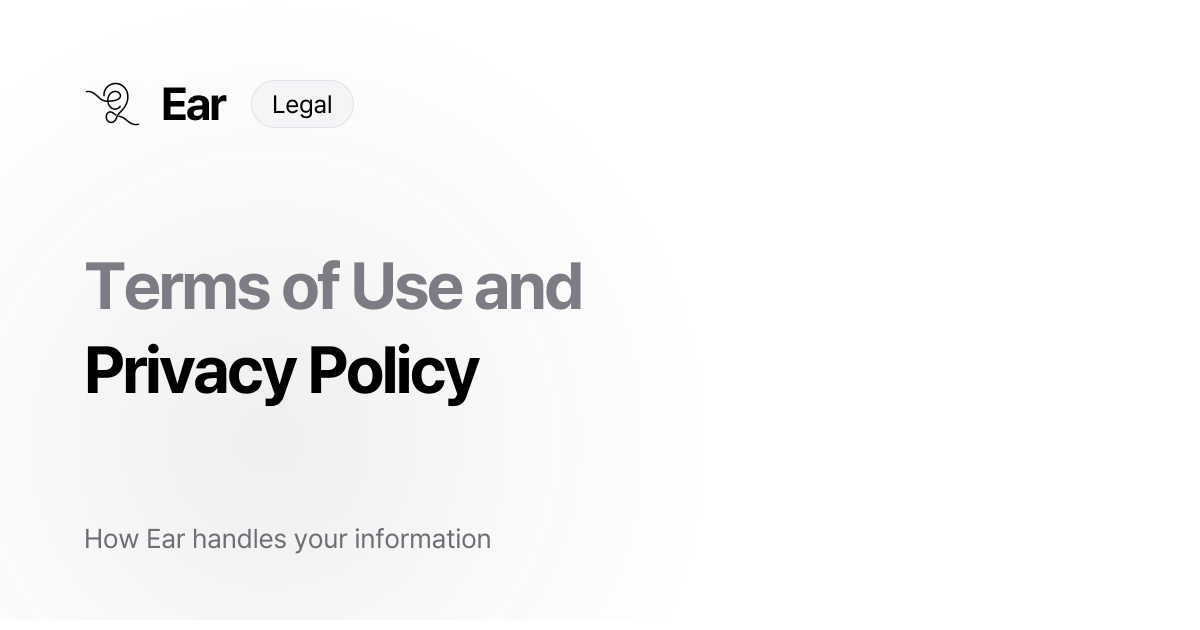
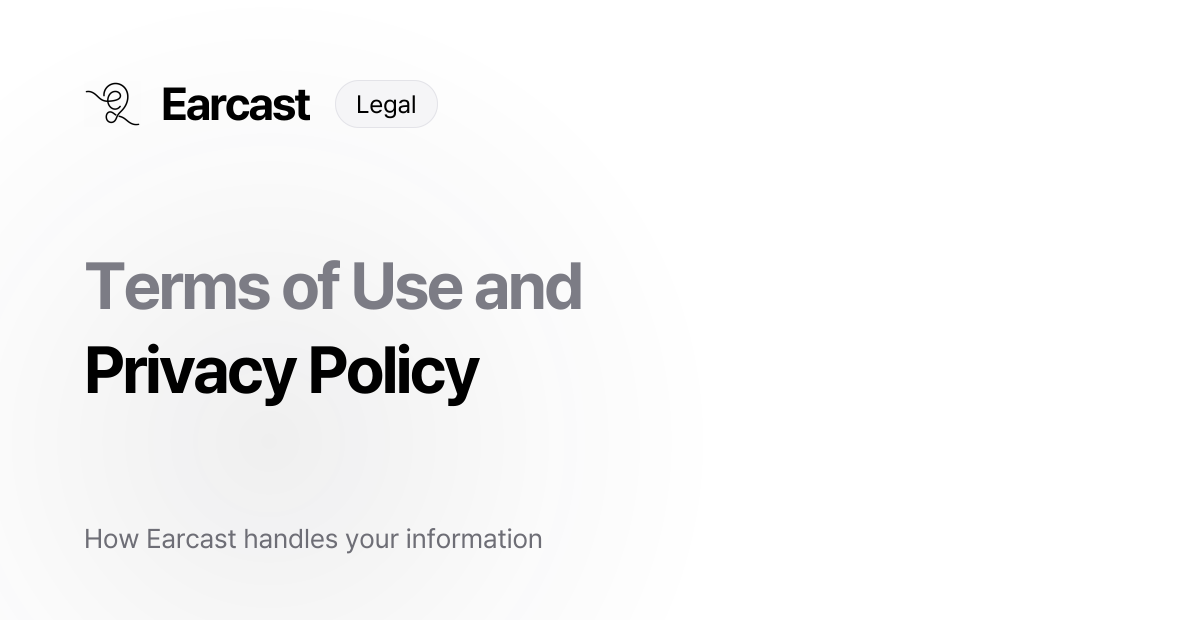
docs(landing): rename english app name to earcast
영어 페이지(/en)·영어 약관·처리방침·OG 이미지의 앱 이름 Ear 를
Earcast 로 바꾼다(2026-10-18 PM 확정, KAN-199).

Claude-Session: https://claude.ai/code/session_01PnE7g58ZtqfhDH1crrtndf

Changed region(s): [[0.1542, 0.8444, 0.4625, 0.8746], [0.185, 0.1206, 0.2775, 0.2111], [0.3083, 0.1508, 0.37, 0.181]]

diff --git a/landing-page/src/content/legal-en.ts b/landing-page/src/content/legal-en.ts
@@ -27,7 +27,7 @@ const TBD = {
 } as const;
 
 export const legalNoticeEn =
-  "Ear is preparing its global launch. This document describes the rules that will apply at launch. The effective date and confirmed company details will be announced with the launch.";
+  "Earcast is preparing its global launch. This document describes the rules that will apply at launch. The effective date and confirmed company details will be announced with the launch.";
 
 export const legalMetaEn = {
   effectiveDate: TBD.effectiveDate,
@@ -48,7 +48,7 @@ export const legalLabelsEn = {
 export const privacyBlocksEn: Block[] = [
   {
     type: "p",
-    text: `This Privacy Policy explains how ${TBD.company} ("**we**", "**us**") handles personal information when you use the audio service "${site.name}" ("**Ear**" or the "**Service**") in the global (English) market — what we collect, why, who receives it, how long we keep it, and the rights you have. It applies to users who chose English as their content language when they signed up.`,
+    text: `This Privacy Policy explains how ${TBD.company} ("**we**", "**us**") handles personal information when you use the audio service "${site.name}" ("**Earcast**" or the "**Service**") in the global (English) market — what we collect, why, who receives it, how long we keep it, and the rights you have. It applies to users who chose English as their content language when they signed up.`,
   },
 
   { type: "h2", text: "1. Who we are" },
@@ -145,7 +145,7 @@ export const privacyBlocksEn: Block[] = [
   {
     type: "note",
     title: "Recommendations",
-    text: "Ear picks daily episodes automatically from the topics you follow and what you listen to. This is personalization of what we offer you; it does not produce legal or similarly significant effects on you, and you can change your topics at any time.",
+    text: "Earcast picks daily episodes automatically from the topics you follow and what you listen to. This is personalization of what we offer you; it does not produce legal or similarly significant effects on you, and you can change your topics at any time.",
   },
 
   { type: "h2", text: "4. Who receives your information" },
@@ -195,13 +195,13 @@ export const privacyBlocksEn: Block[] = [
   { type: "h2", text: "6. International transfers" },
   {
     type: "p",
-    text: "We are based in the Republic of Korea and our servers are in Seoul. If you use Ear from another country, your information is transferred to Korea, and some providers in section 4 process it in the United States or other countries where they operate. We transfer it only to providers bound by contract to protect it to a standard comparable to the law of your country, and, where your law requires it, with your consent. You can ask us for details of these safeguards at the contact address below.",
+    text: "We are based in the Republic of Korea and our servers are in Seoul. If you use Earcast from another country, your information is transferred to Korea, and some providers in section 4 process it in the United States or other countries where they operate. We transfer it only to providers bound by contract to protect it to a standard comparable to the law of your country, and, where your law requires it, with your consent. You can ask us for details of these safeguards at the contact address below.",
   },
 
   { type: "h2", text: "7. Children" },
   {
     type: "p",
-    text: "Ear is for people **aged 18 or older**, or **16 or older** in Singapore, Hong Kong and the Republic of Korea. We ask you to confirm your age when you sign up and we do not knowingly collect information from anyone below the age that applies where they live. If we learn that we have, we delete it and close the account. If you believe a child has given us information, contact us.",
+    text: "Earcast is for people **aged 18 or older**, or **16 or older** in Singapore, Hong Kong and the Republic of Korea. We ask you to confirm your age when you sign up and we do not knowingly collect information from anyone below the age that applies where they live. If we learn that we have, we delete it and close the account. If you believe a child has given us information, contact us.",
   },
 
   { type: "h2", text: "8. Your rights" },
@@ -290,10 +290,10 @@ export const termsBlocksEn: Block[] = [
   { type: "h2", text: "1. About these Terms" },
   {
     type: "p",
-    text: `These Terms of Use ("**Terms**") are an agreement between you and ${TBD.company} ("**we**", "**us**") for the AI-generated podcast service "${site.name}" ("**Ear**" or the "**Service**"). By creating an account you agree to these Terms and acknowledge our Privacy Policy.`,
+    text: `These Terms of Use ("**Terms**") are an agreement between you and ${TBD.company} ("**we**", "**us**") for the AI-generated podcast service "${site.name}" ("**Earcast**" or the "**Service**"). By creating an account you agree to these Terms and acknowledge our Privacy Policy.`,
   },
 
-  { type: "h2", text: "2. Who can use Ear" },
+  { type: "h2", text: "2. Who can use Earcast" },
   {
     type: "ol",
     items: [
@@ -305,7 +305,7 @@ export const termsBlocksEn: Block[] = [
     ],
   },
 
-  { type: "h2", text: "3. What Ear provides" },
+  { type: "h2", text: "3. What Earcast provides" },
   {
     type: "ol",
     items: [
@@ -332,10 +332,10 @@ export const termsBlocksEn: Block[] = [
   {
     type: "ol",
     items: [
-      "Ear has a free plan with a daily play limit and paid subscription plans with a higher or no daily limit. The plan names, prices, billing period and limits are shown on the subscription screen before you buy.",
+      "Earcast has a free plan with a daily play limit and paid subscription plans with a higher or no daily limit. The plan names, prices, billing period and limits are shown on the subscription screen before you buy.",
       "**Subscriptions are purchased through the Apple App Store or Google Play** and charged to your store account. Prices are shown in your local currency by the store and may include taxes.",
       "**Subscriptions renew automatically** for the same period and price unless you cancel at least 24 hours before the end of the current period. Your account is charged for renewal within 24 hours before the period ends.",
-      "**You can manage or cancel your subscription in your store account settings** (iPhone: Settings › your name › Subscriptions; Android: Google Play › Payments & subscriptions). Ear's plan screen links there.",
+      "**You can manage or cancel your subscription in your store account settings** (iPhone: Settings › your name › Subscriptions; Android: Google Play › Payments & subscriptions). Earcast's plan screen links there.",
       "If you cancel, you keep paid features until the end of the period you already paid for, then move to the free plan. Your library stays.",
       "Upgrades take effect immediately as handled by the store. Downgrades take effect at the next renewal.",
       "If an introductory offer or free trial is offered, its length and what happens when it ends are shown before you start it. Any unused part of a free trial is forfeited when you buy a subscription, where the store applies that rule.",
@@ -373,7 +373,7 @@ export const termsBlocksEn: Block[] = [
   {
     type: "ol",
     items: [
-      "Ear and its episodes are owned by us or our licensors.",
+      "Earcast and its episodes are owned by us or our licensors.",
       "We give you a **personal, non-exclusive, non-transferable, revocable license** to stream episodes in the app for your own non-commercial use.",
       "You may not copy, record, download outside the app, redistribute, broadcast, publicly perform or create derivative works from episodes or scripts without our written permission.",
       "We may stop offering an episode at any time — for example when a license ends or a rights holder asks us to — and it will disappear from your library and search.",
@@ -425,7 +425,7 @@ export const termsBlocksEn: Block[] = [
   { type: "h2", text: "14. Apple App Store" },
   {
     type: "p",
-    text: "If you downloaded Ear from the Apple App Store:",
+    text: "If you downloaded Earcast from the Apple App Store:",
   },
   {
     type: "ul",
@@ -443,7 +443,7 @@ export const termsBlocksEn: Block[] = [
   { type: "h2", text: "15. Changes to these Terms" },
   {
     type: "p",
-    text: "We will announce changes in the app at least 7 days before they take effect, and at least 30 days before changes that are worse for you. If you do not agree, you can stop using Ear and delete your account; continuing to use it after the change requires your agreement to the new version.",
+    text: "We will announce changes in the app at least 7 days before they take effect, and at least 30 days before changes that are worse for you. If you do not agree, you can stop using Earcast and delete your account; continuing to use it after the change requires your agreement to the new version.",
   },
 
   { type: "h2", text: "16. Governing law and disputes" },

diff --git a/landing-page/src/content/en/site.ts b/landing-page/src/content/en/site.ts
@@ -9,14 +9,15 @@
  * 쓰지 않은 것: 편수·길이·가격·요금제 이름 — 글로벌 요금제와 편성 수치가 아직 확정되지 않았다(global-api.md 9장).
  * 확정되면 그때 넣는다.
  *
- * 영어 앱 이름 `Ear`는 **PM 확정 전 임시값**이다(KAN-198). 바뀌면 `enSite.name` 한 곳만 고친다.
+ * 영어 앱 이름은 `Earcast`다(2026-10-18 PM 확정 — KAN-199. 종전 임시값 `Ear`, KAN-198). 바뀌면 `enSite.name`과
+ * 본문 문장(이 파일·`routes.ts`·`legal-en.ts`·`scripts/og-pages.mjs`)을 함께 고친다.
  * 화면에 나가는 값이므로 **한국어 글자를 넣지 않는다**.
  */
 
 import { site } from "../site";
 
 export const enSite = {
-  name: "Ear",
+  name: "Earcast",
   shortDescription:
     "AI-generated audio episodes on Korean culture, delivered to your library every day.",
   locale: "en_US",
@@ -28,12 +29,12 @@ export const enHome = {
   hero: {
     eyebrow: "AI podcast app",
     title: "Korean culture, in short audio episodes",
-    lede: "Ear is an AI-generated podcast app. Pick the topics you like, and new episodes about Korean culture arrive in your library every day. Every episode is produced ahead of time, so it plays the moment you tap.",
+    lede: "Earcast is an AI-generated podcast app. Pick the topics you like, and new episodes about Korean culture arrive in your library every day. Every episode is produced ahead of time, so it plays the moment you tap.",
   },
   features: {
     eyebrow: "Features",
     title: "Less searching, more listening",
-    lede: "Ear takes care of finding something to listen to, so you can just press play.",
+    lede: "Earcast takes care of finding something to listen to, so you can just press play.",
     items: [
       {
         icon: "drip",
@@ -48,7 +49,7 @@ export const enHome = {
       {
         icon: "resume",
         title: "Pick up where you left off",
-        text: "Ear remembers where you stopped. It never starts playing on its own when you open the app.",
+        text: "Earcast remembers where you stopped. It never starts playing on its own when you open the app.",
       },
       {
         icon: "compass",
@@ -72,13 +73,13 @@ export const enHome = {
     eyebrow: "About the content",
     title: "Made with AI, and we say so",
     paragraphs: [
-      "Episodes on Ear are written with the help of AI and read by synthetic voices (text-to-speech). The voices are not real people.",
+      "Episodes on Earcast are written with the help of AI and read by synthetic voices (text-to-speech). The voices are not real people.",
       "We check scripts against their sources before release, but AI-generated content can still contain mistakes. Episodes are for general interest and are not legal, medical, financial or other professional advice. If you spot an error, let us know.",
     ],
   },
   cta: {
     title: "Start with today's episode",
-    lede: "Ear is available on the App Store and Google Play.",
+    lede: "Earcast is available on the App Store and Google Play.",
   },
   nextTitle: "More information",
 } as const;

diff --git a/landing-page/src/content/en/routes.ts b/landing-page/src/content/en/routes.ts
@@ -22,7 +22,7 @@ export type EnRouteMeta = {
   koKey: RouteKey;
   /** 바닥글·breadcrumb에 쓰는 이름. */
   label: string;
-  /** `<title>`. 영어 레이아웃의 template이 뒤에 " | Ear"를 붙인다(홈은 예외). */
+  /** `<title>`. 영어 레이아웃의 template이 뒤에 " | Earcast"를 붙인다(홈은 예외). */
   title: string;
   description: string;
   /** `scripts/og-pages.mjs`가 굽는 파일과 이름이 같아야 한다. */
@@ -44,9 +44,9 @@ export const enRoutes: Record<EnRouteKey, EnRouteMeta> = {
     path: "/en/",
     koKey: "home",
     label: "Home",
-    title: "Ear — AI-generated audio episodes on Korean culture",
+    title: "Earcast — AI-generated audio episodes on Korean culture",
     description:
-      "Ear is an AI-generated podcast app. Pick the topics you like, and short audio episodes about Korean culture arrive in your library every day, ready to play.",
+      "Earcast is an AI-generated podcast app. Pick the topics you like, and short audio episodes about Korean culture arrive in your library every day, ready to play.",
     ogImage: "/og/en.png",
     priority: 0.8,
     changeFrequency: "monthly",
@@ -60,7 +60,7 @@ export const enRoutes: Record<EnRouteKey, EnRouteMeta> = {
     title: "Terms of Use",
     // 제목·설명은 PR #1584의 영어 약관 페이지 문구 그대로다
     description:
-      "The rules for using Ear — eligibility, subscriptions and cancellation, AI-generated content, and how you may use our episodes.",
+      "The rules for using Earcast — eligibility, subscriptions and cancellation, AI-generated content, and how you may use our episodes.",
     ogImage: "/og/en-legal.png",
     priority: 0.3,
     changeFrequency: "yearly",
@@ -86,7 +86,7 @@ export const enRoutes: Record<EnRouteKey, EnRouteMeta> = {
     label: "Account Deletion",
     title: "Delete Your Account",
     description:
-      "How to delete your Ear account, what is deleted, and what is kept for a limited time because the law requires it.",
+      "How to delete your Earcast account, what is deleted, and what is kept for a limited time because the law requires it.",
     ogImage: "/og/en-legal.png",
     priority: 0.3,
     changeFrequency: "yearly",

diff --git a/docs/tickets/frontend/pending/landing-english-pages.md b/docs/tickets/frontend/pending/landing-english-pages.md
@@ -49,3 +49,4 @@
     - 운영 반영 — 랜딩 운영은 main을 따른다(dev → main PR). 그 뒤 완료 조건 2(영어 URL 200 응답) 확인.
     - 사람 손 — 글로벌 스토어 리스팅의 지원 URL `https://earcast.co.kr/en/`, 개인정보 URL `https://earcast.co.kr/en/privacy/`, Google Play 계정 삭제 URL `https://earcast.co.kr/en/account-deletion/` 입력.
 - 2026-10-18 영어 앱 이름 **Earcast** 로 PM 확정(KAN-198 — 종전 임시값 `Ear`). 앱은 PR `feat(fe)/release-1-3-0` 에서 반영했고, **랜딩은 아직 `Ear` 다** — `src/content/en/site.ts` `enSite.name` · `routes.ts` 제목·설명 · `legal-en.ts` 본문의 "Ear" 별칭 · `scripts/og-pages.mjs` 영어 워드마크. 랜딩 릴리즈(dev→main)와 함께 바꾼다.
+- 2026-10-19 **랜딩 영어 앱 이름 `Ear` → `Earcast`**(브랜치 `docs(fe)/landing-earcast-name`). 단어 경계(`Ear`)로만 바꿔 `Earn`·`early`·`hear`·`year` 류는 건드리지 않았다 — 29곳: `src/content/en/site.ts` 7(`enSite.name` 포함 — 헤더·바닥글·`<title>` template·`applicationName`·저작권 줄이 이 값을 따른다) · `src/content/en/routes.ts` 5(제목·설명·주석) · `src/content/legal-en.ts` 13 · `scripts/og-pages.mjs` 4(영어 워드마크·문구·주석). 한국어 "이어"는 그대로다. OG 이미지 `public/og/en.png`·`en-legal.png`는 `npm run og`로 다시 구웠다(글자가 전부 ASCII라 폰트 서브셋은 다시 만들 필요 없음, 한국어 OG는 바이트 동일). lint·build 통과, `out/en/**`에 단독 `Ear` 0건. **법무 검토 대상 주의** — 영어 이용약관·개인정보 처리방침(`legal-en.ts`)의 서비스 별칭 정의가 `("**Earcast**" or the "**Service**")`로 바뀌었다. 이름만 바꾼 것이고 조항 내용은 그대로다. 법무 검토는 `Earcast` 표기로 본다. **남은 것**: 위 10-15 항목 그대로 — 특히 `legal-en.ts`의 `site.name`("이어") 2곳은 이번에도 손대지 않았다(#1584 작성자 확인 대기). 운영 반영은 랜딩 배포(dev→main + 수동 배포) 뒤.
